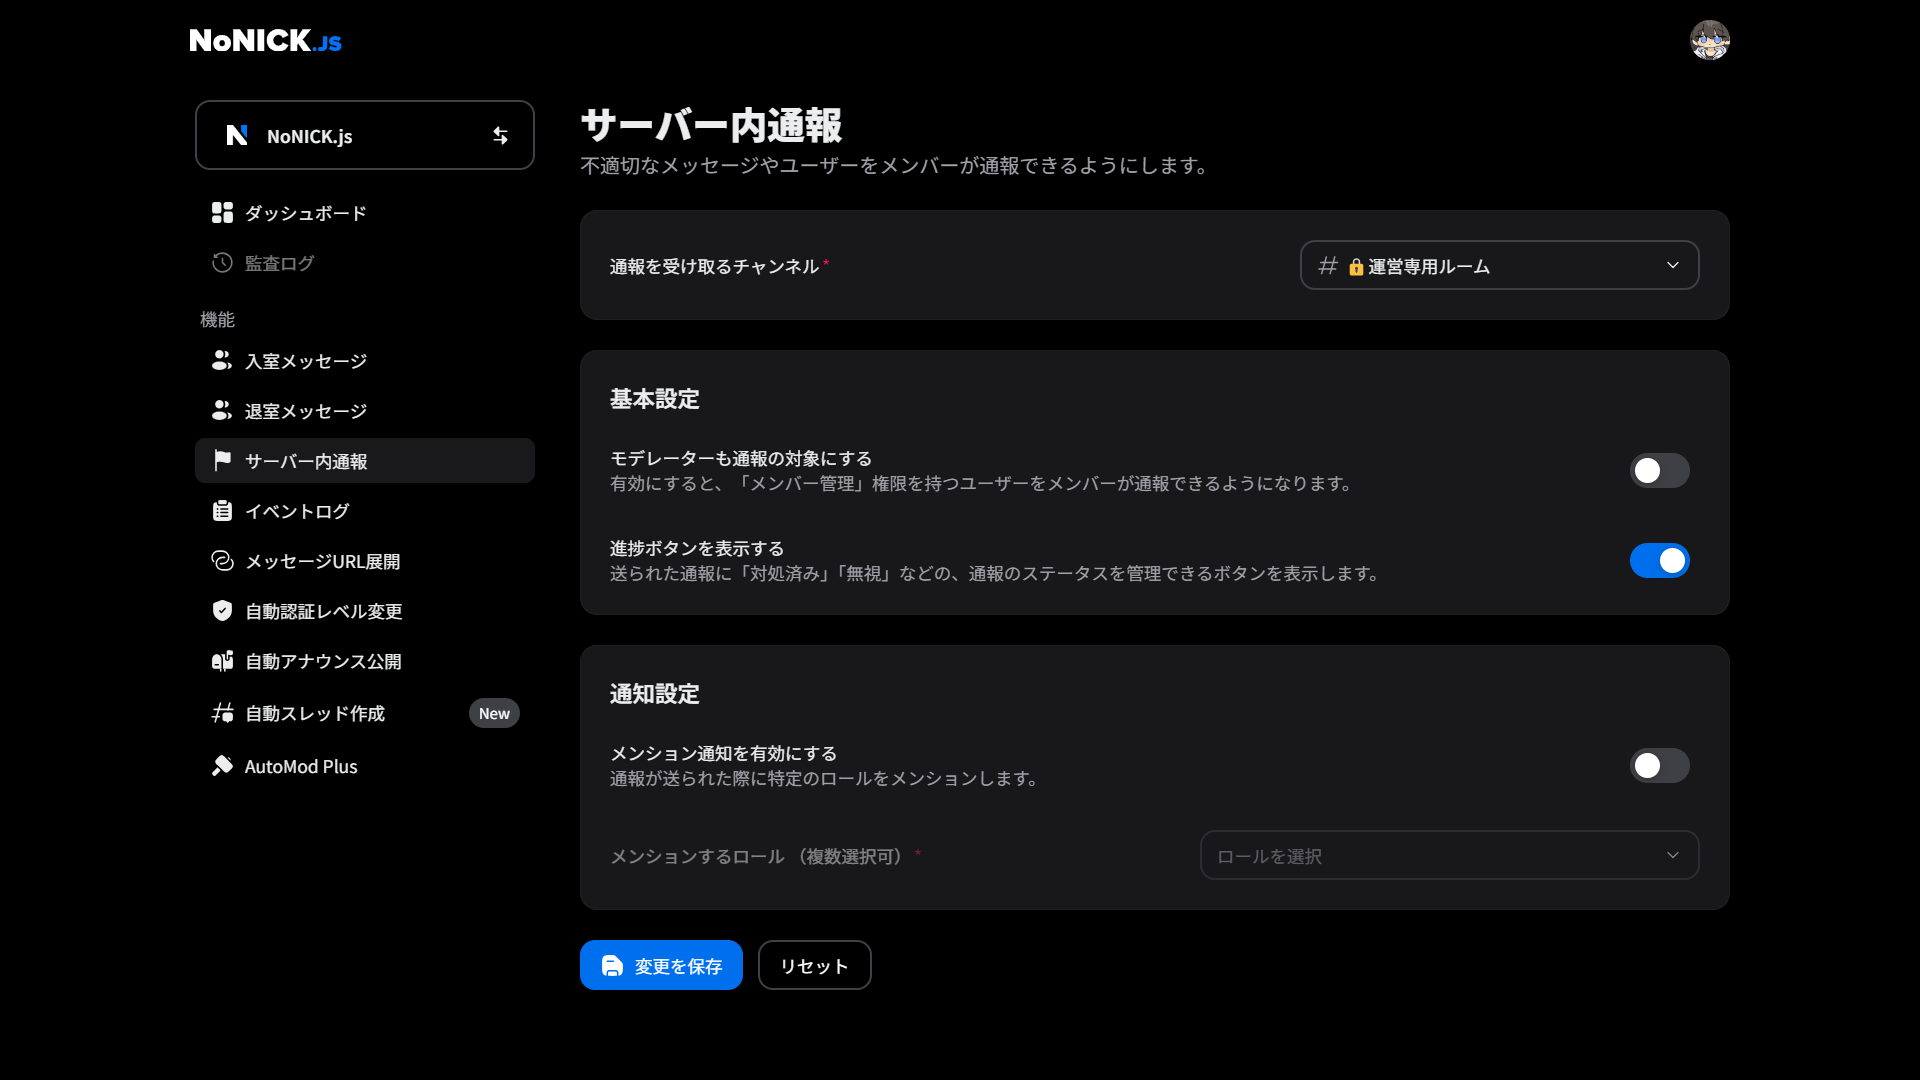
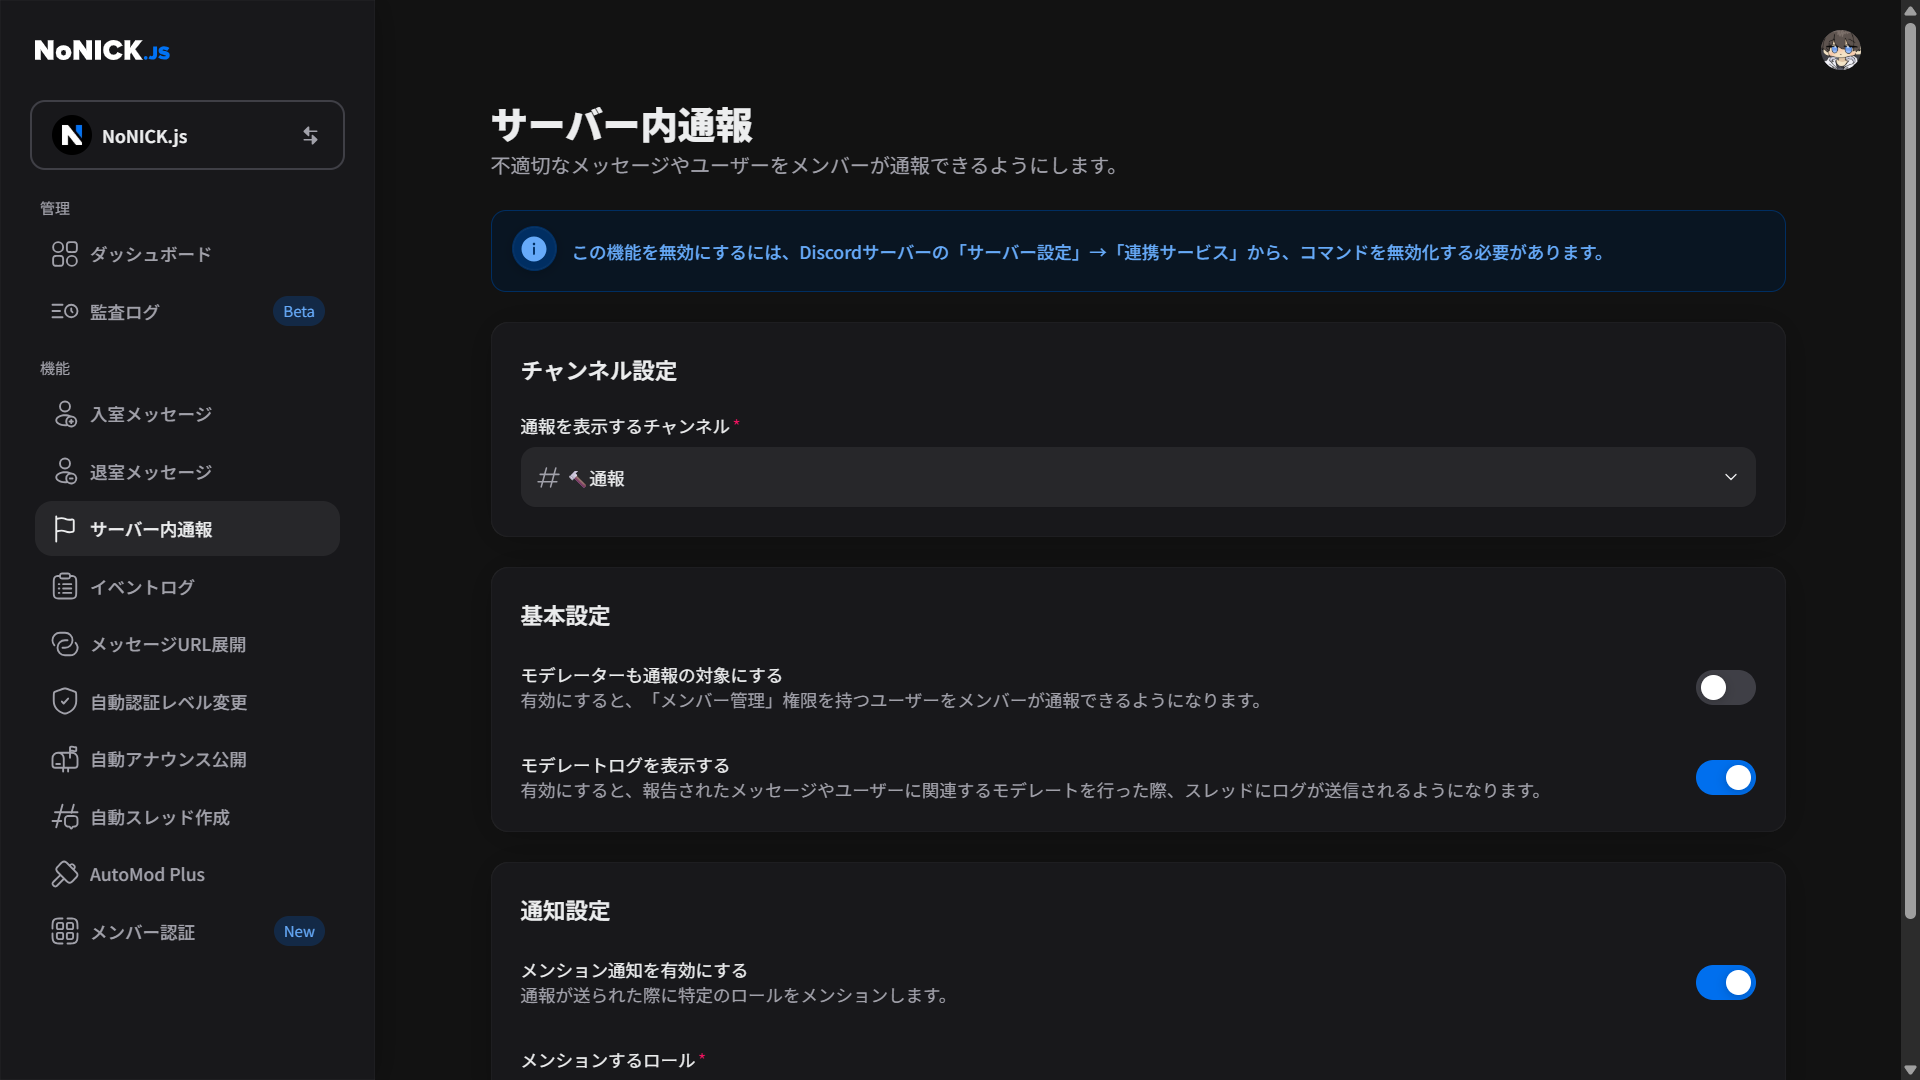
feat: 背景色とダッシュボードの画像を差し替え

diff --git a/tailwind.config.ts b/tailwind.config.ts
@@ -4,10 +4,10 @@ import type { Config } from 'tailwindcss';
 
 const config: Config = {
   content: [
-    "./src/pages/**/*.{js,ts,jsx,tsx,mdx}",
-    "./src/components/**/*.{js,ts,jsx,tsx,mdx}",
-    "./src/app/**/*.{js,ts,jsx,tsx,mdx}",
-    "./node_modules/@nextui-org/theme/dist/components/(button|card|divider|link|navbar|popover|ripple|spinner).js"
+    './src/pages/**/*.{js,ts,jsx,tsx,mdx}',
+    './src/components/**/*.{js,ts,jsx,tsx,mdx}',
+    './src/app/**/*.{js,ts,jsx,tsx,mdx}',
+    './node_modules/@nextui-org/theme/dist/components/(button|card|divider|link|navbar|popover|ripple|spinner).js',
   ],
   theme: {
     container: {
@@ -19,6 +19,17 @@ const config: Config = {
     },
   },
   darkMode: 'class',
-  plugins: [nextui(), typography],
+  plugins: [
+    nextui({
+      themes: {
+        dark: {
+          colors: {
+            background: '#121212',
+          },
+        },
+      },
+    }),
+    typography,
+  ],
 };
 export default config;
